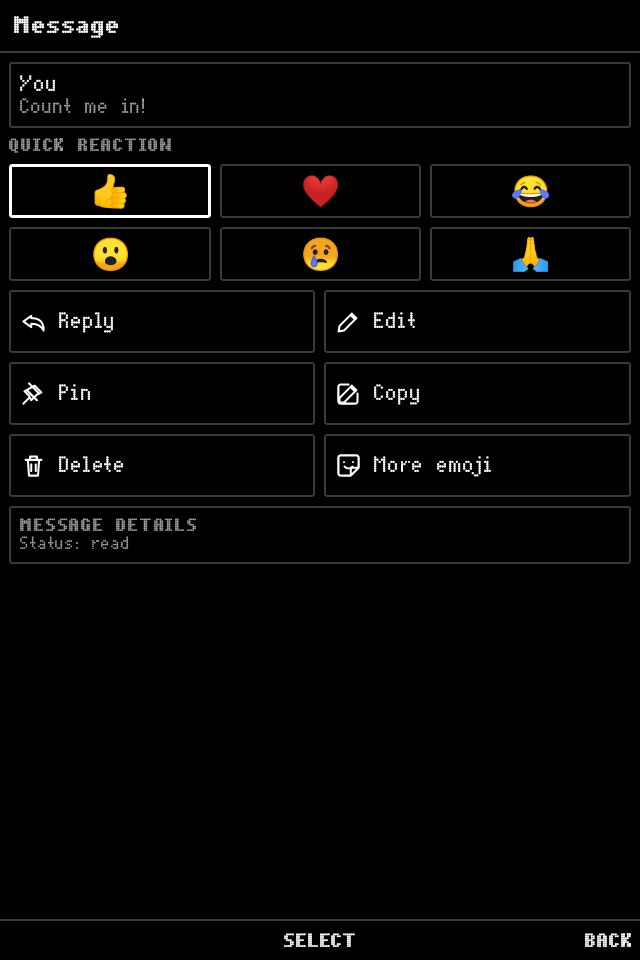
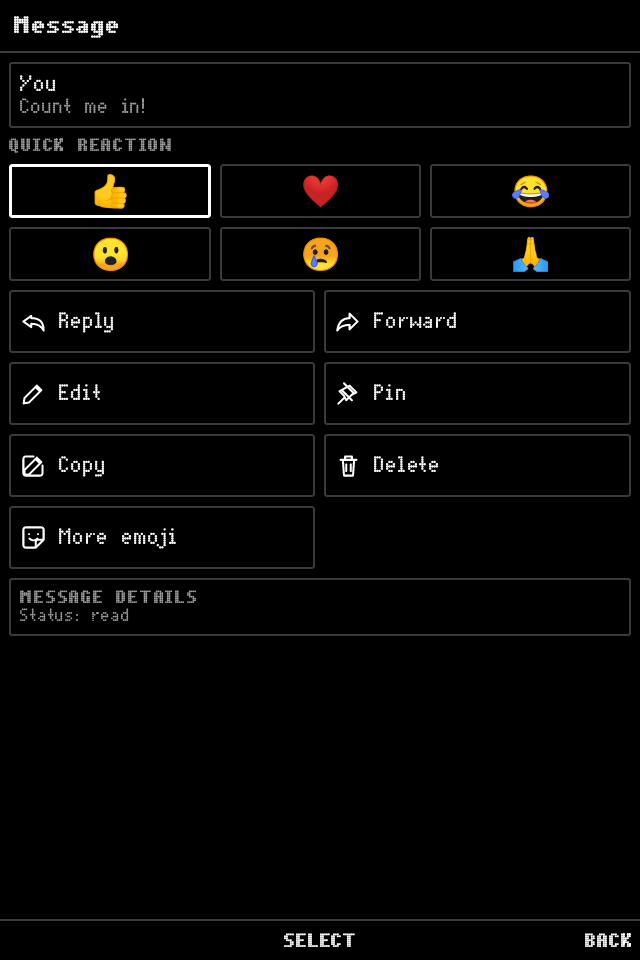
Forwarding, poll options, Offline badge
- Forward tile in the message panel: pick a chat on any service; text
  goes with a "Forwarded from …" line, attachments are downloaded and
  re-sent with their caption. A toast reports the result.
- Polls show their options with vote counts (□ multiple, ○ single).
- Services shows Offline for an account that's linked but not connected.
- Keypad test covers forwarding between services.

diff --git a/app/src/main/kotlin/dev/dumbtalk/app/screens/ForwardPanel.kt b/app/src/main/kotlin/dev/dumbtalk/app/screens/ForwardPanel.kt
@@ -1,0 +1,55 @@
+package dev.dumbtalk.app.screens
+
+import androidx.compose.ui.unit.dp
+import androidx.compose.foundation.layout.Column
+import androidx.compose.foundation.layout.fillMaxSize
+import androidx.compose.foundation.lazy.LazyColumn
+import androidx.compose.foundation.lazy.items
+import androidx.compose.runtime.Composable
+import androidx.compose.runtime.LaunchedEffect
+import androidx.compose.runtime.getValue
+import androidx.compose.runtime.remember
+import androidx.compose.ui.Modifier
+import androidx.compose.ui.focus.FocusRequester
+import androidx.lifecycle.compose.collectAsStateWithLifecycle
+import dev.dumbtalk.app.DumbTalkApp
+import dev.dumbtalk.app.ui.CenteredMessage
+import dev.dumbtalk.app.ui.Header
+import dev.dumbtalk.app.ui.ListButton
+import dev.dumbtalk.app.ui.ServiceIcon
+import dev.dumbtalk.app.ui.SoftkeyAction
+import dev.dumbtalk.app.ui.Softkeys
+import dev.dumbtalk.app.ui.forDisplay
+import dev.dumbtalk.core.Conversation
+import dev.dumbtalk.core.Message
+
+/** Where to send a message: your chats on any connected service, newest first. */
+@Composable
+fun ForwardPanel(app: DumbTalkApp, current: Conversation, onPick: (Conversation) -> Unit, onClose: () -> Unit) {
+    val page by app.inbox.active.collectAsStateWithLifecycle()
+    val targets = page?.conversations.orEmpty().filter { it.id != current.id }
+    val requester = remember { FocusRequester() }
+    LaunchedEffect(targets.isNotEmpty()) { runCatching { requester.requestFocus() } }
+    Softkeys(center = SoftkeyAction("Send"), right = SoftkeyAction("Back", onClose))
+    Column(Modifier.fillMaxSize()) {
+        Header("Forward to")
+        if (targets.isEmpty()) CenteredMessage("No other chats")
+        LazyColumn(Modifier.fillMaxSize()) {
+            items(targets, key = { it.id }) { target ->
+                ListButton(
+                    target.title.forDisplay(),
+                    onClick = { onPick(target) },
+                    leading = { ServiceIcon(target.serviceId, 18.dp) },
+                    focusRequester = if (target.id == targets.first().id) requester else null,
+                )
+            }
+        }
+    }
+}
+
+/** The text a forwarded message is sent with: its attribution, then its content. */
+fun forwardedText(from: Conversation, message: Message): String? {
+    val who = (message.sender?.takeIf { it != "You" } ?: from.title)
+    val body = message.text?.takeIf { it.isNotBlank() } ?: return null
+    return "Forwarded from $who:\n$body"
+}

diff --git a/app/src/main/kotlin/dev/dumbtalk/app/screens/ChatScreen.kt b/app/src/main/kotlin/dev/dumbtalk/app/screens/ChatScreen.kt
@@ -99,6 +99,7 @@ fun ChatScreen(app: DumbTalkApp, navigator: Navigator, screen: Screen.Chat) {
     var actionMessageId by remember { mutableStateOf<String?>(null) }
     var showOptions by remember { mutableStateOf(false) }
     var emojiFor by remember { mutableStateOf<EmojiUse?>(null) }
+    var forwarding by remember { mutableStateOf<Message?>(null) }
     val listState = rememberLazyListState()
     val messageFocus = remember { FocusRequester() }
     val inputFocus = remember { FocusRequester() }
@@ -179,6 +180,19 @@ fun ChatScreen(app: DumbTalkApp, navigator: Navigator, screen: Screen.Chat) {
     val actionMessage = model.messages?.firstOrNull { it.id == actionMessageId }
     val activeRecorder = recorder
     when {
+        forwarding != null -> ForwardPanel(
+            app, conversation,
+            onPick = { target ->
+                val message = forwarding!!
+                forwarding = null
+                actionMessageId = null
+                model.forward(message, target, app.registry.forConversation(target)) { problem ->
+                    Toast.makeText(context, problem?.let { "Not forwarded: $it" } ?: "Forwarded to ${target.title}", Toast.LENGTH_SHORT).show()
+                }
+            },
+            onClose = { forwarding = null },
+        )
+
         emojiFor != null -> EmojiPanel(
             title = if (emojiFor is EmojiUse.React) "React" else "Emoji",
             onPick = { emoji ->
@@ -214,6 +228,7 @@ fun ChatScreen(app: DumbTalkApp, navigator: Navigator, screen: Screen.Chat) {
             onDelete = { model.delete(actionMessage); actionMessageId = null },
             onPin = { model.togglePin(actionMessage); actionMessageId = null },
             onMoreReactions = { emojiFor = EmojiUse.React(actionMessage) },
+            onForward = { forwarding = actionMessage },
             media = mediaAction(actionMessage)?.let { item -> MenuItem(item.label, item.icon) { actionMessageId = null; item.onClick() } },
         )
 

diff --git a/app/src/main/kotlin/dev/dumbtalk/app/screens/ServicesScreen.kt b/app/src/main/kotlin/dev/dumbtalk/app/screens/ServicesScreen.kt
@@ -109,11 +109,16 @@ fun ServicesScreen(app: DumbTalkApp, navigator: Navigator) {
                 leading = { ServiceIcon(status.id, size = 28.dp) },
                 trailing = {
                     BasicText(
-                        if (status.connected) "On" else "Off",
-                        style = Type.bold(Type.small.copy(color = if (status.connected) Palette.background else Palette.muted)),
+                        // Linked but not connected right now reads as Offline.
+                        when {
+                            status.connected && status.ready -> "On"
+                            status.connected -> "Offline"
+                            else -> "Off"
+                        },
+                        style = Type.bold(Type.small.copy(color = if (status.connected && status.ready) Palette.background else Palette.muted)),
                         modifier = Modifier
-                            .background(if (status.connected) Palette.text else Palette.background, Square)
-                            .border(1.dp, if (status.connected) Palette.text else Palette.line, Square)
+                            .background(if (status.connected && status.ready) Palette.text else Palette.background, Square)
+                            .border(1.dp, if (status.connected && status.ready) Palette.text else Palette.line, Square)
                             .padding(horizontal = 5.dp, vertical = 2.dp),
                     )
                 },

diff --git a/app/src/main/kotlin/dev/dumbtalk/app/screens/ChatModel.kt b/app/src/main/kotlin/dev/dumbtalk/app/screens/ChatModel.kt
@@ -148,6 +148,27 @@ class ChatModel(
         }
     }
 
+    /**
+     * Sends [message] to [target] on any service: attachments are downloaded
+     * and re-sent with their caption, text goes with an attribution line.
+     * [done] gets null on success or a reason.
+     */
+    fun forward(message: Message, target: Conversation, targetService: MessagingService, done: (String?) -> Unit) {
+        scope.launch {
+            val result = runCatching {
+                val attachment = message.attachments.firstOrNull()
+                if (attachment != null) {
+                    val path = attachmentPath(message)
+                    targetService.sendAttachment(target, path, attachment.contentType ?: "application/octet-stream", message.text)
+                } else {
+                    val text = forwardedText(conversation(), message) ?: error("Nothing to forward")
+                    targetService.sendText(target, text)
+                }
+            }
+            done(result.exceptionOrNull()?.let { it.message ?: "failed" })
+        }
+    }
+
     fun toggleReaction(message: Message, emoji: String) {
         val own = message.reactions.any { it.isOwn && it.emoji == emoji }
         launch { service.react(conversation(), message, emoji, remove = own) }

diff --git a/app/src/test/kotlin/dev/dumbtalk/app/ForwardFlowTest.kt b/app/src/test/kotlin/dev/dumbtalk/app/ForwardFlowTest.kt
@@ -1,0 +1,31 @@
+package dev.dumbtalk.app
+
+import android.view.KeyEvent
+import androidx.compose.ui.test.onNodeWithText
+import androidx.compose.ui.test.requestFocus
+import org.junit.Assert.assertFalse
+import org.junit.Test
+
+class ForwardFlowTest : KeypadTest() {
+    @Test
+    fun forwardingSendsTheMessageToAnotherChat() {
+        waitFor("Maya Chen")
+        press(KeyEvent.KEYCODE_DPAD_DOWN, KeyEvent.KEYCODE_DPAD_CENTER) // Family (WhatsApp)
+        waitFor("Lunch at ours on Sunday?")
+        press(KeyEvent.KEYCODE_1) // the latest message's panel
+        waitFor("Forward")
+        compose.onNodeWithText("Forward").requestFocus()
+        step()
+        press(KeyEvent.KEYCODE_DPAD_CENTER)
+        waitFor("Forward to")
+
+        // The first target is the newest other chat; picking it returns to the chat.
+        press(KeyEvent.KEYCODE_DPAD_CENTER)
+        waitFor("Lunch at ours on Sunday?")
+        assertFalse("the app closed", compose.activity.isFinishing)
+
+        // Back in the inbox the target's preview shows the forwarded text.
+        press(KeyEvent.KEYCODE_BACK)
+        waitFor("Forwarded from")
+    }
+}

diff --git a/app/src/main/kotlin/dev/dumbtalk/app/screens/ChatPanels.kt b/app/src/main/kotlin/dev/dumbtalk/app/screens/ChatPanels.kt
@@ -61,6 +61,7 @@ internal fun MessageActions(
     /** View, Play/Stop or Open, for messages with an attachment. */
     media: MenuItem? = null,
     onMoreReactions: () -> Unit = {},
+    onForward: () -> Unit = {},
 ) {
     val context = LocalContext.current
     val requester = remember { FocusRequester() }
@@ -99,6 +100,7 @@ internal fun MessageActions(
             val actions = buildList {
                 if (media != null && !message.deleted) add(media)
                 if (!message.deleted) add(MenuItem("Reply", AppIcon.REPLY, onReply))
+                if (!message.deleted && (message.text != null || message.attachments.isNotEmpty())) add(MenuItem("Forward", AppIcon.FORWARD, onForward))
                 if (outgoing && capabilities.edits && !message.deleted && message.text != null) add(MenuItem("Edit", AppIcon.EDIT, onEdit))
                 if (capabilities.pins && !message.deleted) add(MenuItem(if (message.pinned) "Unpin" else "Pin", AppIcon.PIN, onPin))
                 if (message.text != null) add(MenuItem("Copy", AppIcon.COMPOSE) {

diff --git a/app/src/main/kotlin/dev/dumbtalk/app/screens/MessageList.kt b/app/src/main/kotlin/dev/dumbtalk/app/screens/MessageList.kt
@@ -199,6 +199,15 @@ private fun Bubble(
                     ),
                 )
             }
+            message.poll?.takeIf { !message.deleted }?.let { poll ->
+                Column(Modifier.padding(top = 2.dp)) {
+                    poll.options.forEach { option ->
+                        val votes = option.votes.size.takeIf { it > 0 }?.let { " · $it" }.orEmpty()
+                        BasicText("${if (poll.multiple) "□" else "○"} ${option.text}$votes".forDisplay(), style = Type.body)
+                    }
+                    if (poll.closed) BasicText("Poll closed", style = Type.small)
+                }
+            }
             if (message.reactions.isNotEmpty()) {
                 BasicText(
                     message.reactions.groupBy { it.emoji }.entries.joinToString(" ") { (emoji, list) -> if (list.size > 1) "$emoji${list.size}" else emoji }.forDisplay(),
